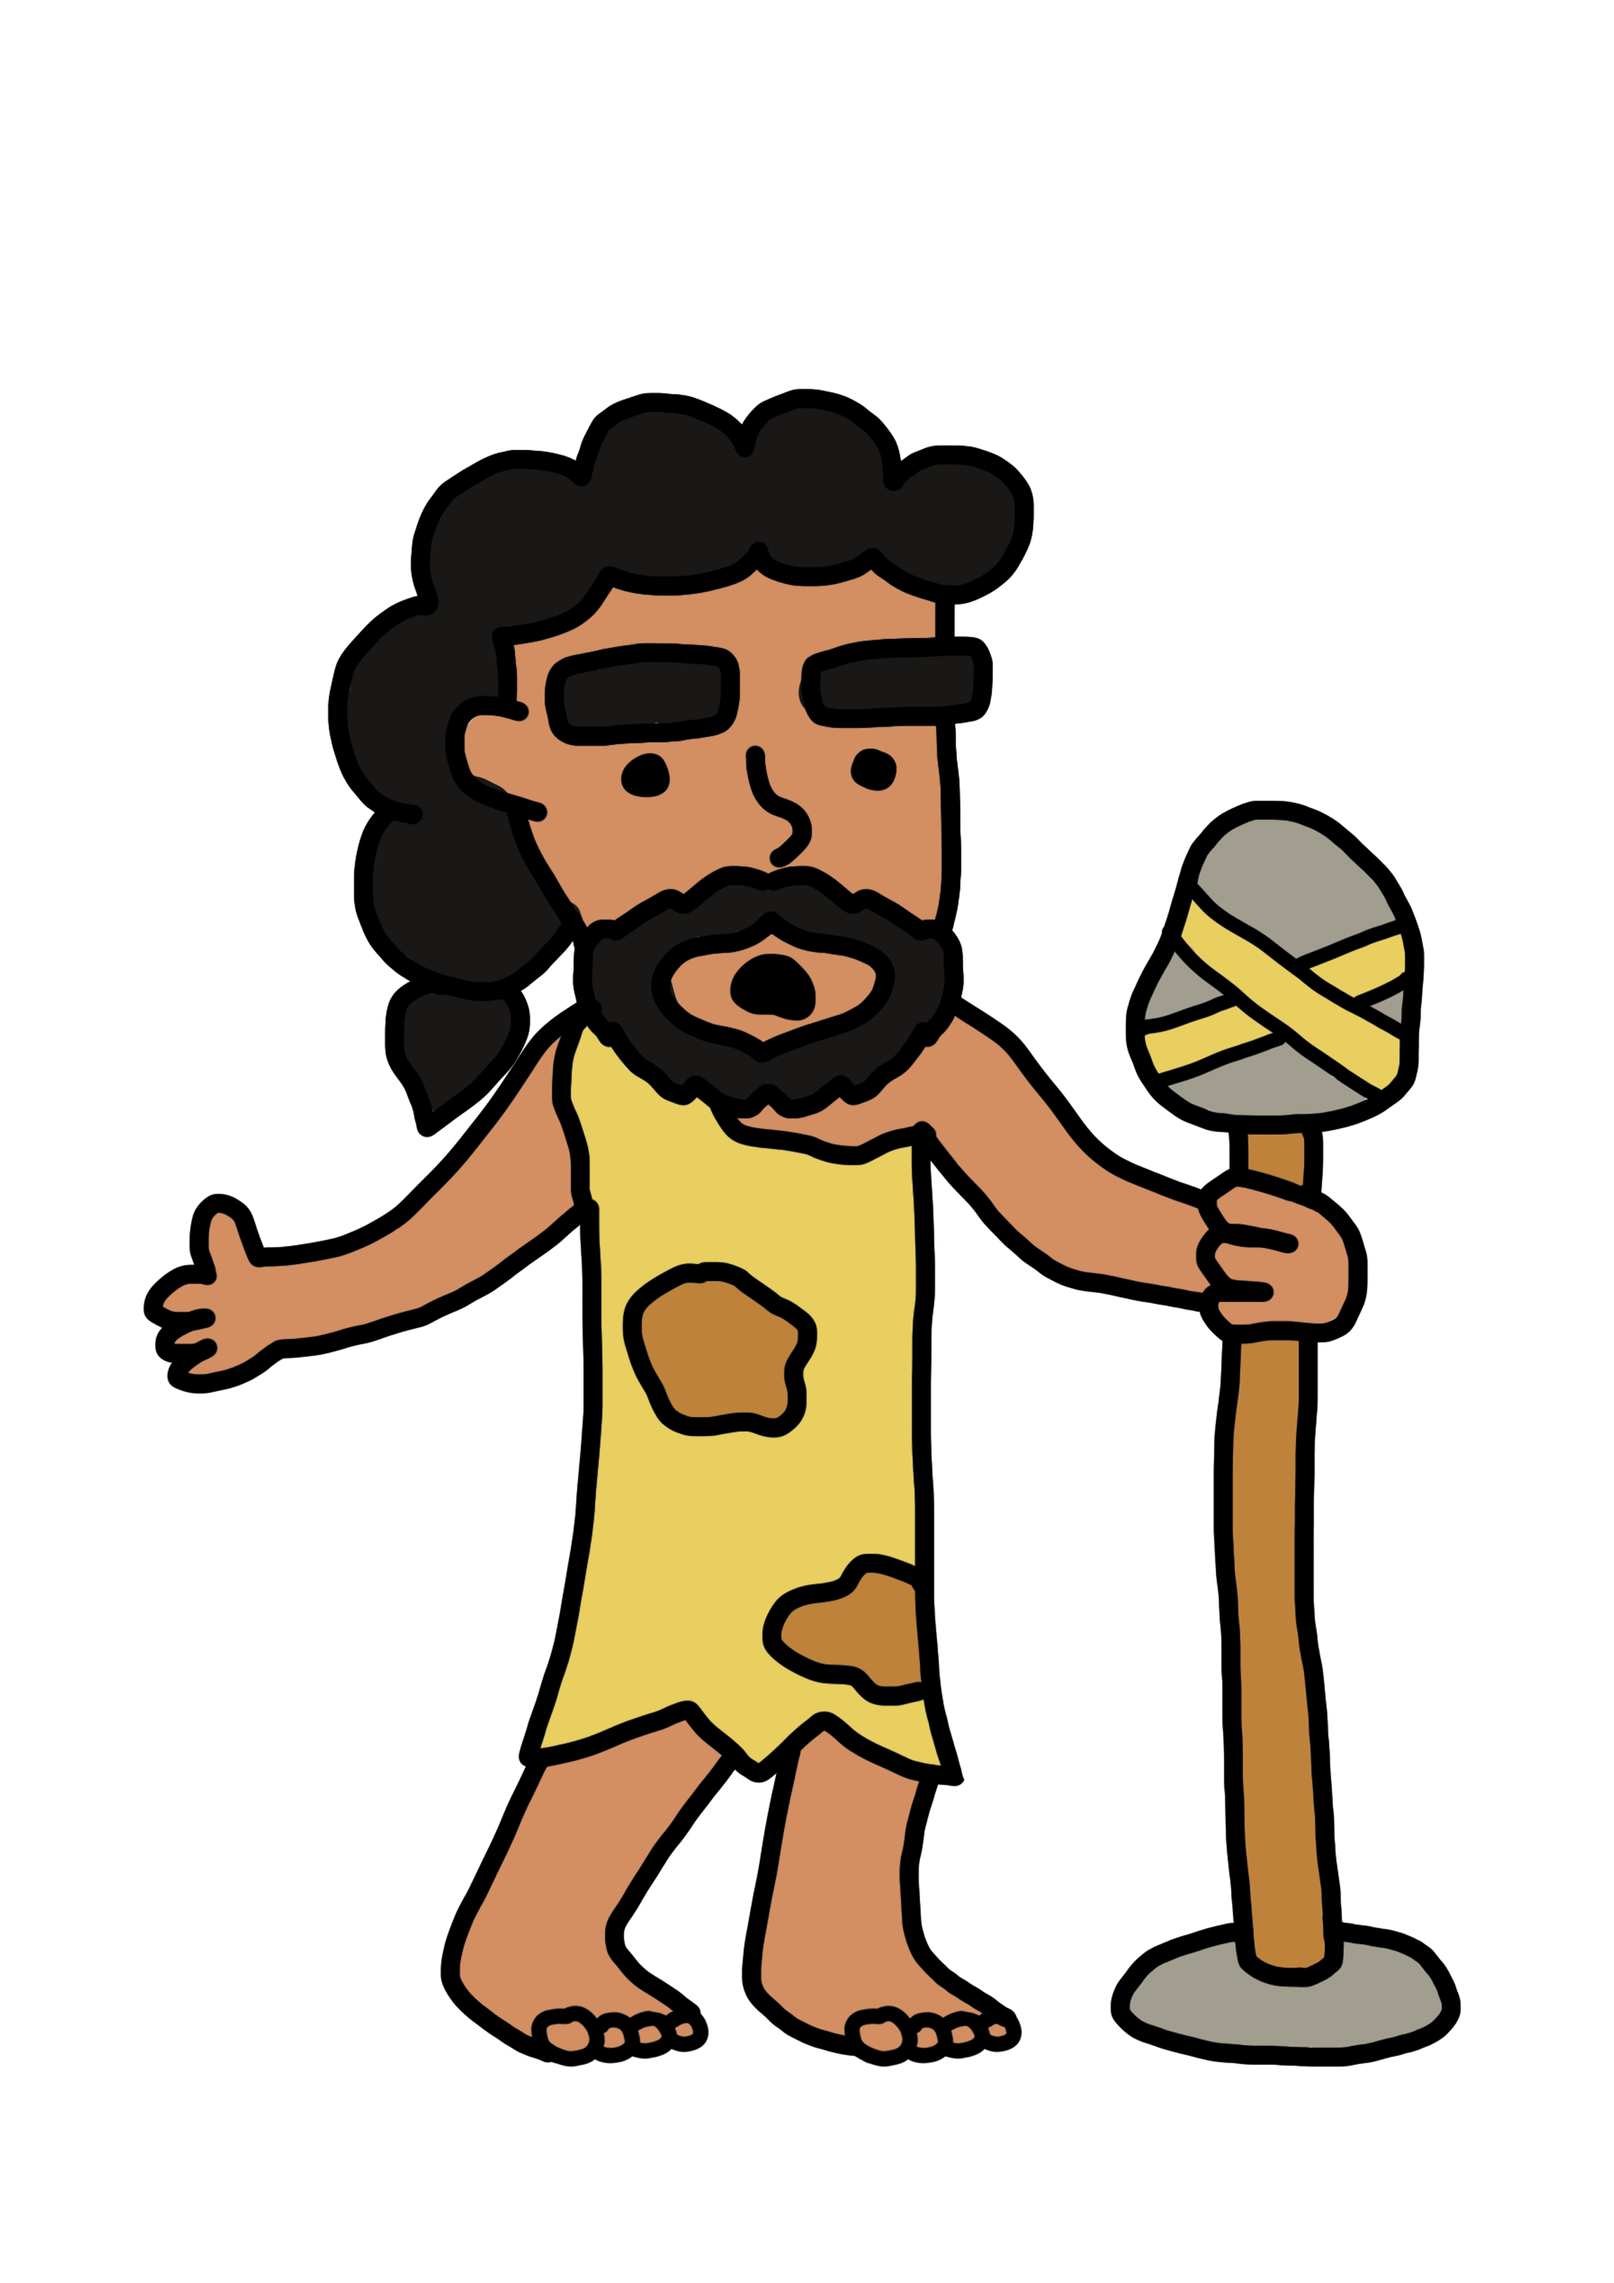
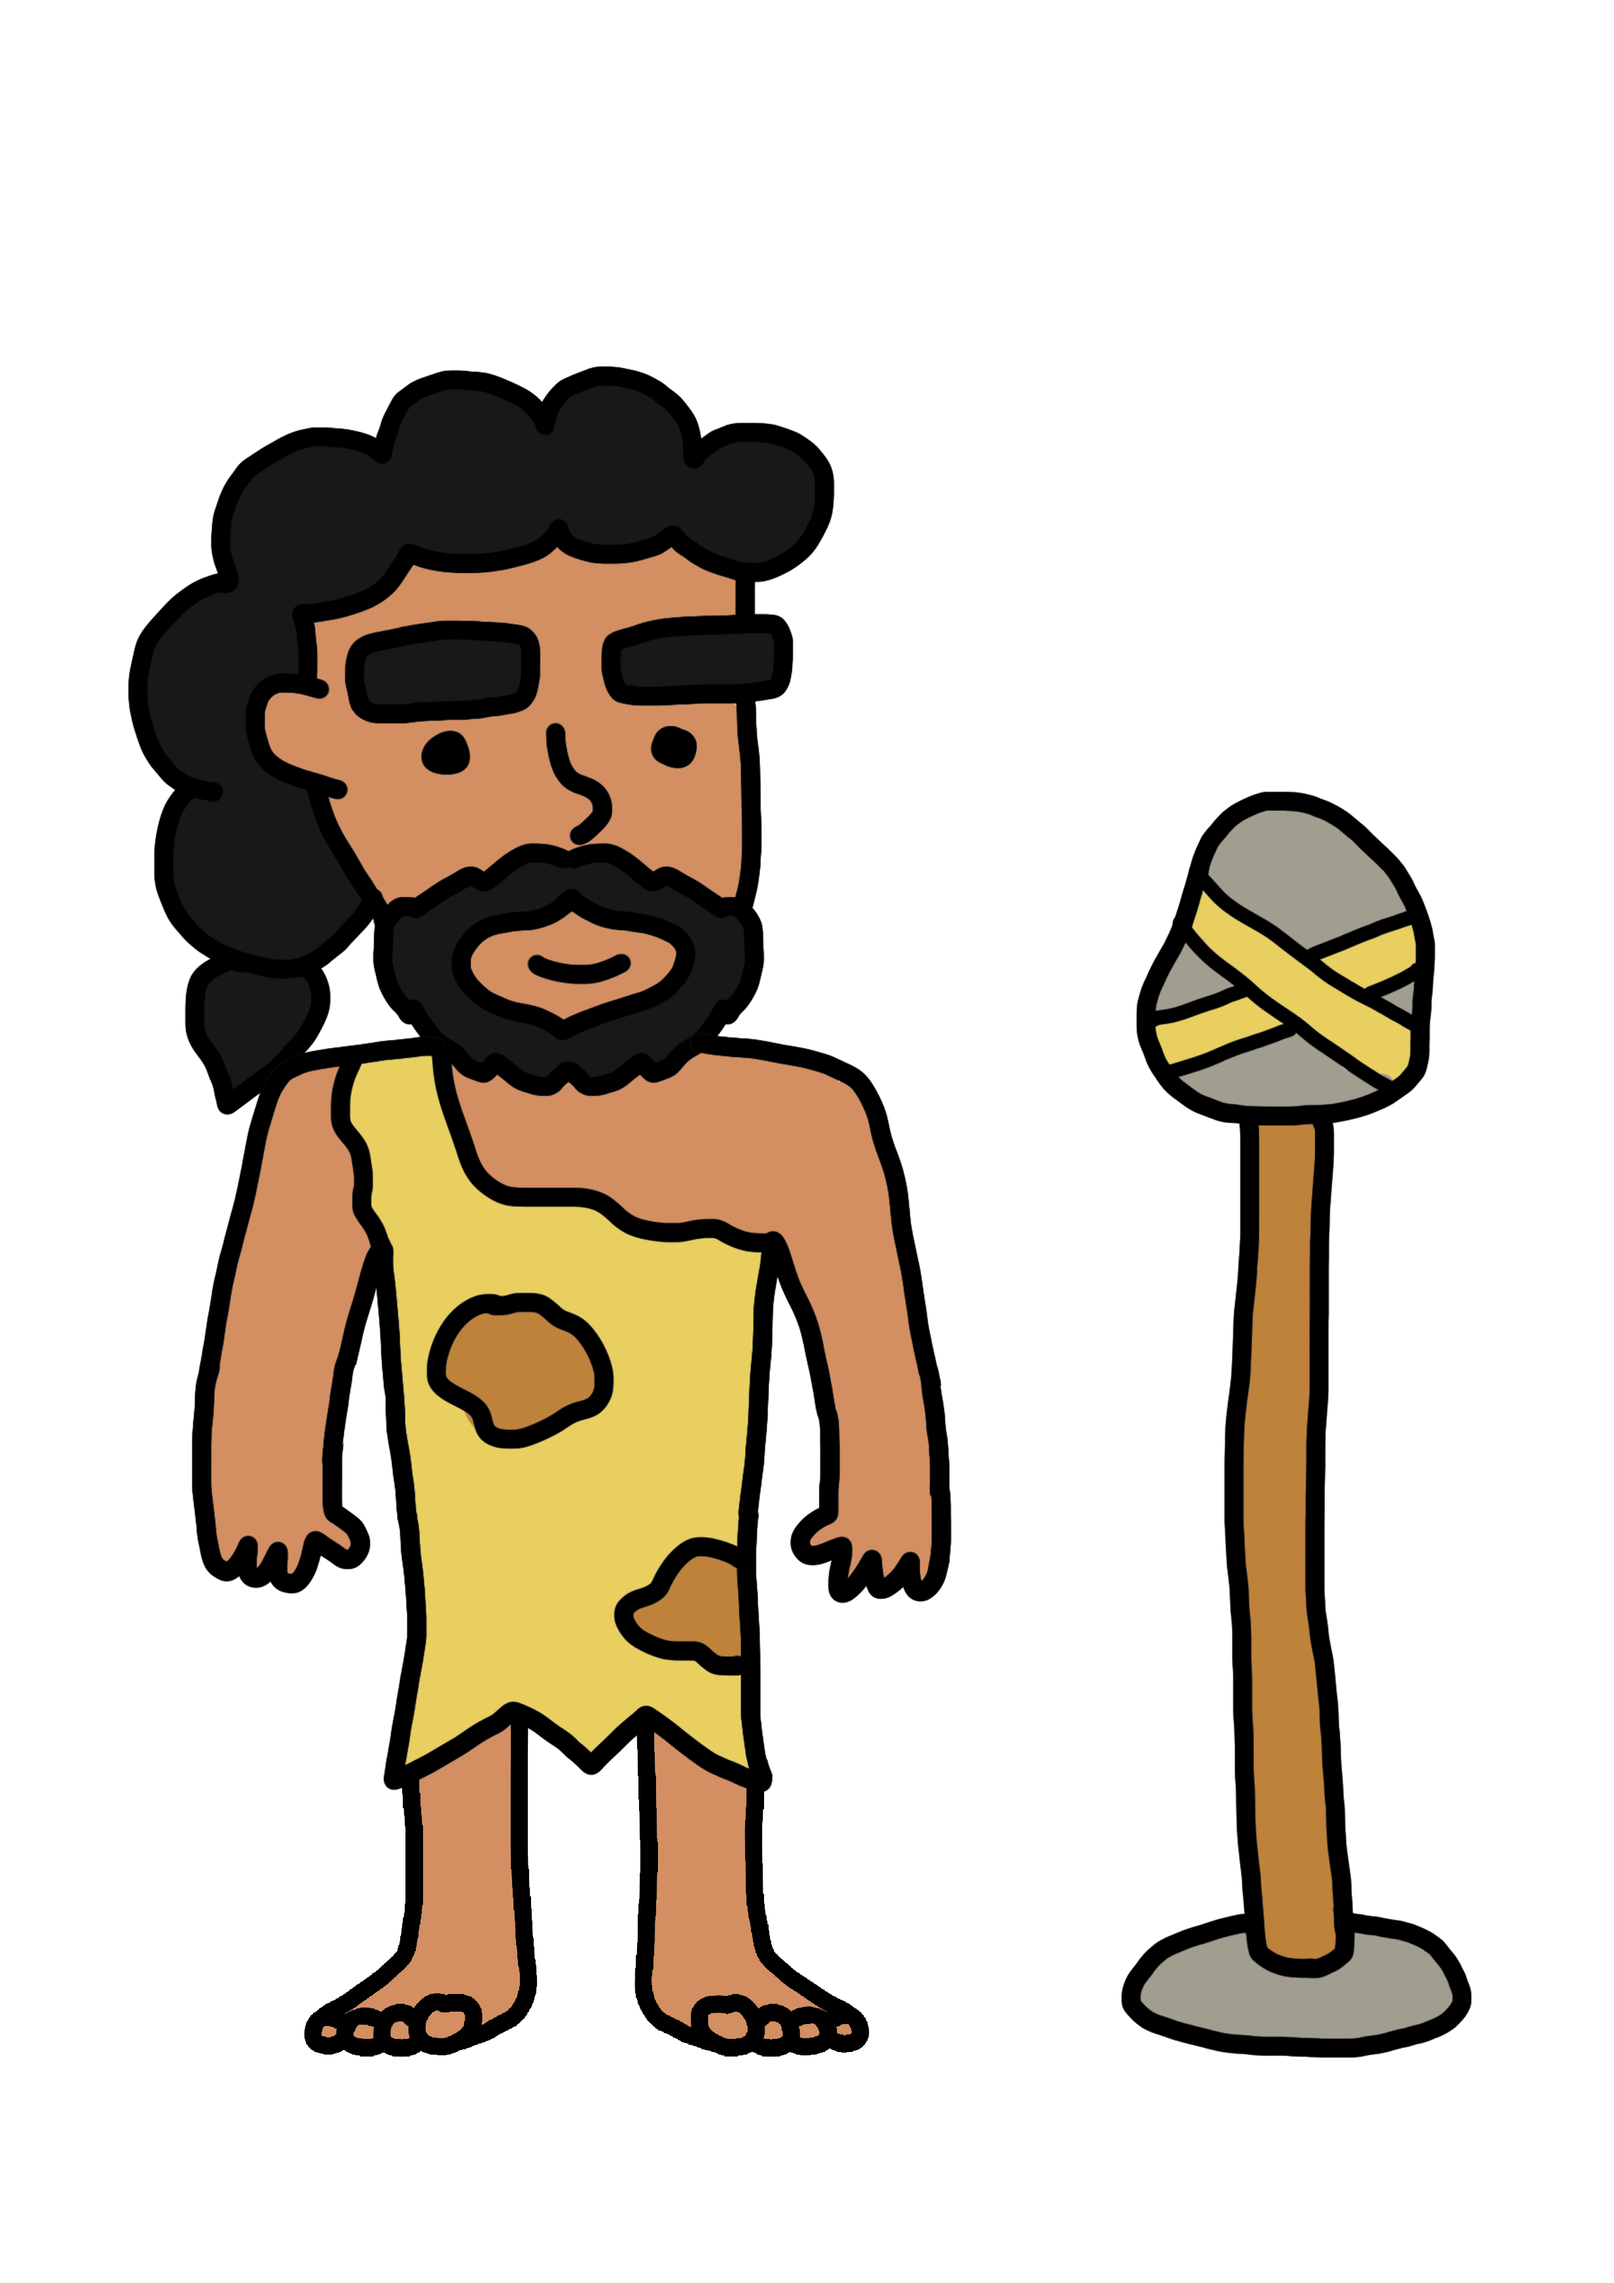
trying to get the singer to work. it's hurting the eyes a bit

diff --git a/music_starter.js b/music_starter.js
@@ -30,24 +30,30 @@ function draw_one_frame(words, vocal, drum, bass, other, counter) {
 //  image(testImg, 1000, drum) // moves according to what it is.
 
   if (firstRun){
-    rectMode(CENTER);
-    singersinging.push(loadImage('singersinging_0.png'));
-    singersinging.push(loadImage('singersinging_1.png'));
-    singersinging.push(loadImage('singersinging_2.png'));
+    singersinging.push(loadImage('singersinging/singersinging_0.png'));
+    singersinging.push(loadImage('singersinging/singersinging_1.png'));
+    singersinging.push(loadImage('singersinging/singersinging_2.png'));
+    singersinging.push(loadImage('singersinging/singersinging_3.png'));
+    singersinging.push(loadImage('singersinging/singersinging_4.png'));
+    singersinging.push(loadImage('singersinging/singersinging_5.png'));
 
     firstRun = false
   }
 
-  background(255);
-
-  let VocalFrame = int(map(vocal, 0, 100, 0, 2));
+  let VocalFrame = int(map(vocal, 0, 100, 0, 6));
   console.log(VocalFrame);
   push();
-  scale(0.1);
-  image(singersinging[VocalFrame], width/2, height/2)
+  scale(0.2);
+  image(singersinging[VocalFrame], 1000, 400)
   pop();
 
 }
+
+//  for(let i = 1; i < 5, i++ ){
+//
+//
+//  }
+
   // vocal, drum, bass, and other are volumes ranging from 0 to 100
   //function draw_one_frame(words, vocal, drum, bass, other, counter) {
    
